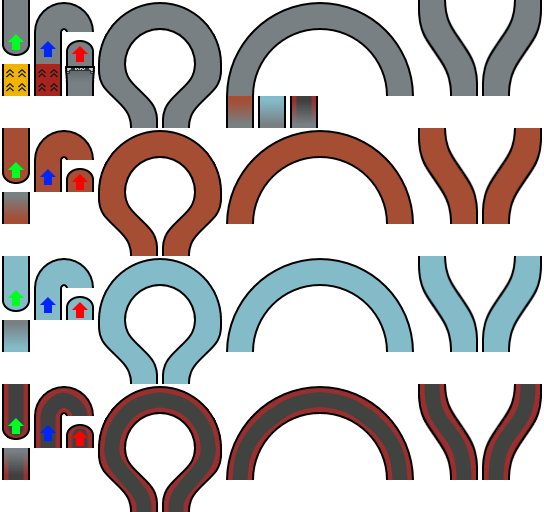
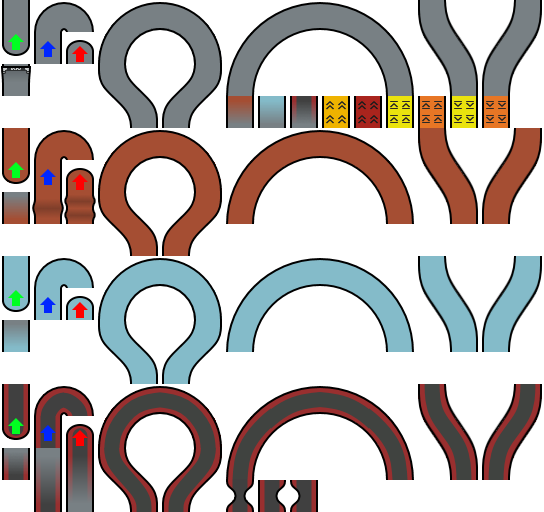
Added more unique pieces and transitions

diff --git a/piecetypes.js b/piecetypes.js
@@ -127,7 +127,7 @@ let gTrackPieceTemplates =
 	turbo:
 	{
 		tags: [ "straight", "engineBlock" ],
-		imageOffset: new Vector2D(0, 64),
+		imageOffset: new Vector2D(320, 96),
 		imageDimensions: new Vector2D(32, 32),
 		exitOffset: new Vector2D(0, -1),
 		exitAngle: 0,
@@ -136,7 +136,43 @@ let gTrackPieceTemplates =
 	superTurbo:
 	{
 		tags: [ "straight", "engineBlock" ],
-		imageOffset: new Vector2D(32, 64),
+		imageOffset: new Vector2D(352, 96),
+		imageDimensions: new Vector2D(32, 32),
+		exitOffset: new Vector2D(0, -1),
+		exitAngle: 0,
+		absoluteImageOffset: true,
+	},
+	boostUp:
+	{
+		tags: [ "straight", "engineBlock" ],
+		imageOffset: new Vector2D(384, 96),
+		imageDimensions: new Vector2D(32, 32),
+		exitOffset: new Vector2D(0, -1),
+		exitAngle: 0,
+		absoluteImageOffset: true,
+	},
+	superBoostUp:
+	{
+		tags: [ "straight", "engineBlock" ],
+		imageOffset: new Vector2D(416, 96),
+		imageDimensions: new Vector2D(32, 32),
+		exitOffset: new Vector2D(0, -1),
+		exitAngle: 0,
+		absoluteImageOffset: true,
+	},
+	boostDown:
+	{
+		tags: [ "straight", "engineBlock" ],
+		imageOffset: new Vector2D(448, 96),
+		imageDimensions: new Vector2D(32, 32),
+		exitOffset: new Vector2D(0, -1),
+		exitAngle: 0,
+		absoluteImageOffset: true,
+	},
+	superBoostDown:
+	{
+		tags: [ "straight", "engineBlock" ],
+		imageOffset: new Vector2D(480, 96),
 		imageDimensions: new Vector2D(32, 32),
 		exitOffset: new Vector2D(0, -1),
 		exitAngle: 0,
@@ -176,10 +212,21 @@ let gPieceTypes =
 			exitAngle: 0,
 			transitionTo: { material: "sausageFlat" },
 		},
+		toSausageLong:
+		{
+			tags: [ "straight" ],
+			imageOffset: new Vector2D(64, 448),
+			imageDimensions: new Vector2D(32, 64),
+			exitOffset: new Vector2D(0, -2),
+			exitAngle: 0,
+			collisionOffset: new Vector2D(0, -0.5),
+			collisionExtents: new Vector2D(1, 2),
+			transitionTo: { material: "sausageFlat" },
+		},
 		jump:
 		{
 			tags: [ "jump" ],
-			imageOffset: new Vector2D(64, 64),
+			imageOffset: new Vector2D(0, 64),
 			imageDimensions: new Vector2D(32, 32),
 			exitOffset: new Vector2D(0, -2),
 			exitAngle: 0,
@@ -196,7 +243,23 @@ let gPieceTypes =
 			exitOffset: new Vector2D(0, -1),
 			exitAngle: 0,
 			transitionTo: { material: "roadFlat" },
-		}
+		},
+		largeBump:
+		{
+			tags: [ "straight" ],
+			imageOffset: new Vector2D(32, 192),
+			imageDimensions: new Vector2D(32, 32),
+			exitOffset: new Vector2D(0, -1),
+			exitAngle: 0,
+		},
+		smallBumps:
+		{
+			tags: [ "straight" ],
+			imageOffset: new Vector2D(64, 192),
+			imageDimensions: new Vector2D(32, 32),
+			exitOffset: new Vector2D(0, -1),
+			exitAngle: 0,
+		},
 	},
 	iceFlat:
 	{
@@ -220,7 +283,42 @@ let gPieceTypes =
 			exitOffset: new Vector2D(0, -1),
 			exitAngle: 0,
 			transitionTo: { material: "roadFlat" },
-		}
+		},
+		toRoadLong:
+		{
+			tags: [ "straight" ],
+			imageOffset: new Vector2D(32, 448),
+			imageDimensions: new Vector2D(32, 64),
+			exitOffset: new Vector2D(0, -2),
+			exitAngle: 0,
+			collisionOffset: new Vector2D(0, -0.5),
+			collisionExtents: new Vector2D(1, 2),
+			transitionTo: { material: "roadFlat" },
+		},
+		narrowCentre:
+		{
+			tags: [ "straight" ],
+			imageOffset: new Vector2D(224, 480),
+			imageDimensions: new Vector2D(32, 32),
+			exitOffset: new Vector2D(0, -1),
+			exitAngle: 0,
+		},
+		narrowRight:
+		{
+			tags: [ "straight" ],
+			imageOffset: new Vector2D(256, 480),
+			imageDimensions: new Vector2D(32, 32),
+			exitOffset: new Vector2D(0, -1),
+			exitAngle: 0,
+		},
+		narrowLeft:
+		{
+			tags: [ "straight" ],
+			imageOffset: new Vector2D(288, 480),
+			imageDimensions: new Vector2D(32, 32),
+			exitOffset: new Vector2D(0, -1),
+			exitAngle: 0,
+		},
 	},
 };
 
